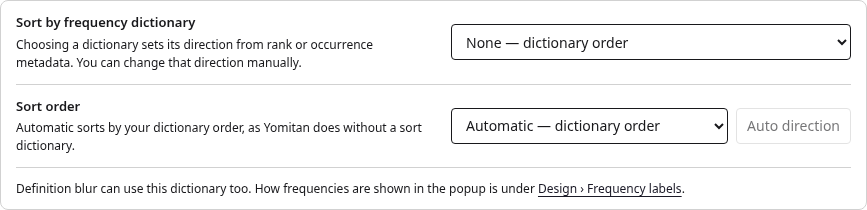
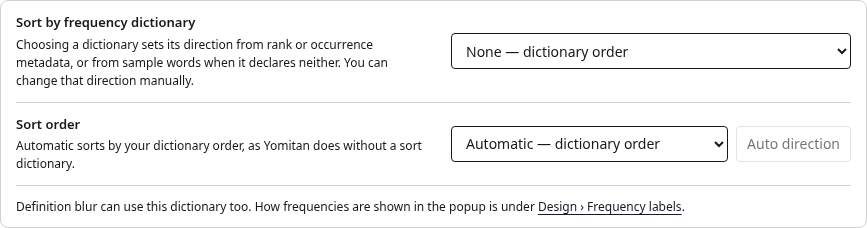
Screenshots after the audit fixes: blur hint, sorting and Design text

diff --git a/hachidori-freq/README.md b/hachidori-freq/README.md
@@ -3,7 +3,7 @@
 Real Chrome 152 (headless) with the unpacked extension of each checkout, over
 small made-up frequency lists in the Discord report's shape: a rank-based
 Jiten-like list (平均 15700) and a CC100-like list without `frequencyMode`
-(平均 26700). "before" is main 58be1244.
+(平均 26700). "before" is main 58be1244. Images updated after the audit show the heads after its fixes.
 
 - `popup-averages-before.png` / `popup-averages-after.png`: Show frequency
   averages and Abbreviate large numbers on. main shows Avg rank 15.7k and Avg
@@ -15,6 +15,9 @@ Jiten-like list (平均 15700) and a CC100-like list without `frequencyMode`
 - `settings-sort-cc100-*.png`: Reading → Frequency sorting with the CC100-like
   list chosen; the sample is inconclusive, so main sorts it highest first and
   the branch lowest first, as a rank list.
+- `settings-blur-cc100-*.png`: Reading → Definition blur by frequency reading the
+  CC100-like list: main reads it as counts ("at or above"), the branch as ranks,
+  with a note for an undeclared list of counts such as the original Innocent Corpus.
 - `settings-design-frequency-*.png`: Design → Frequency labels.
 - `settings-sort-labels-*.png`: Reading → Frequency sorting labels.
 
